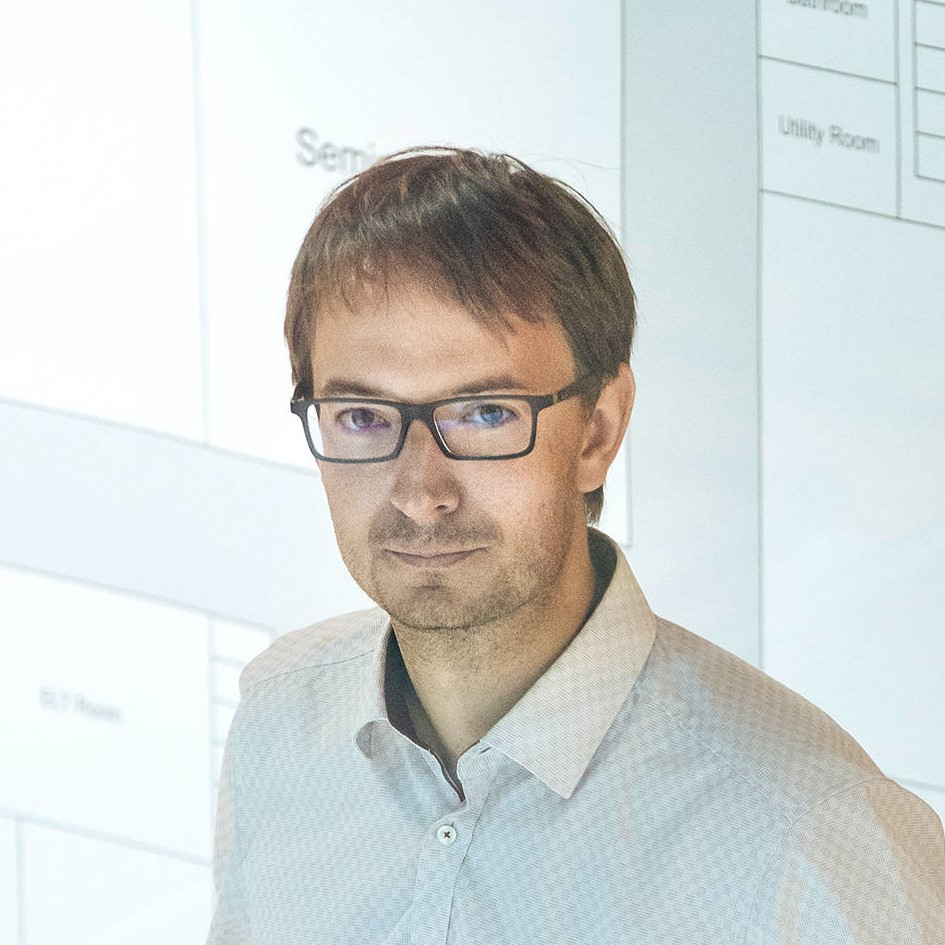
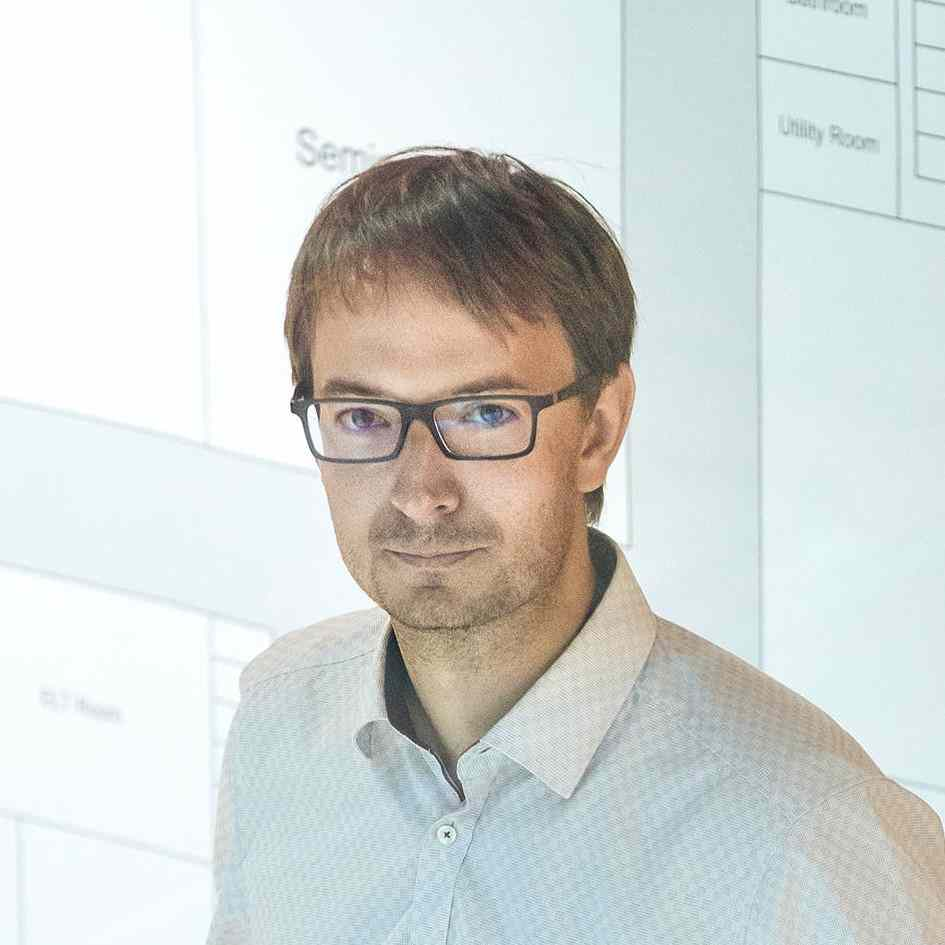
.

Changed region(s): [[0.4603, 0.4603, 0.491, 0.491]]

diff --git a/team.html b/team.html
@@ -39,14 +39,14 @@
        list:[
         {img:imgurl+"li_chen.jpg",name:"Li Chen",content:"End-to-end AD",url:"https://scholar.google.com/citations?user=ulZxvY0AAAAJ"},
         {img:imgurl+"chonghao_sima.jpeg",name:"Chonghao Sima",content:"Perception",url:"https://scholar.google.com/citations?user=dgYJ6esAAAAJ"},
-        {img:imgurl+"jiazhi_yang.png",name:"Jiazhi Yang",content:"AGI",url:""},        ]
+        {img:imgurl+"jiazhi_yang.jpg",name:"Jiazhi Yang",content:"AGI",url:""},        ]
       },
       {
        title:"Practitioner",
        list:[
         {img:imgurl+"tianyu_li.png",name:"Tianyu Li",content:"Fudan University",url:""},
-        {img:imgurl+"xiaosong_jia.jpeg",name:"Xiaosong Jia",content:"Shanghai Jiao Tong University",url:"https://jiaxiaosong1002.github.io"},
-        {img:imgurl+"penghao_wu.png",name:"Penghao Wu",content:"University of California San Diego",url:"https://scholar.google.com/citations?user=9mssd5EAAAAJ"},
+        {img:imgurl+"xiaosong_jia.jpg",name:"Xiaosong Jia",content:"Shanghai Jiao Tong University",url:"https://jiaxiaosong1002.github.io"},
+        {img:imgurl+"penghao_wu.jpg",name:"Penghao Wu",content:"University of California San Diego",url:"https://scholar.google.com/citations?user=9mssd5EAAAAJ"},
         ]
       },
       {
